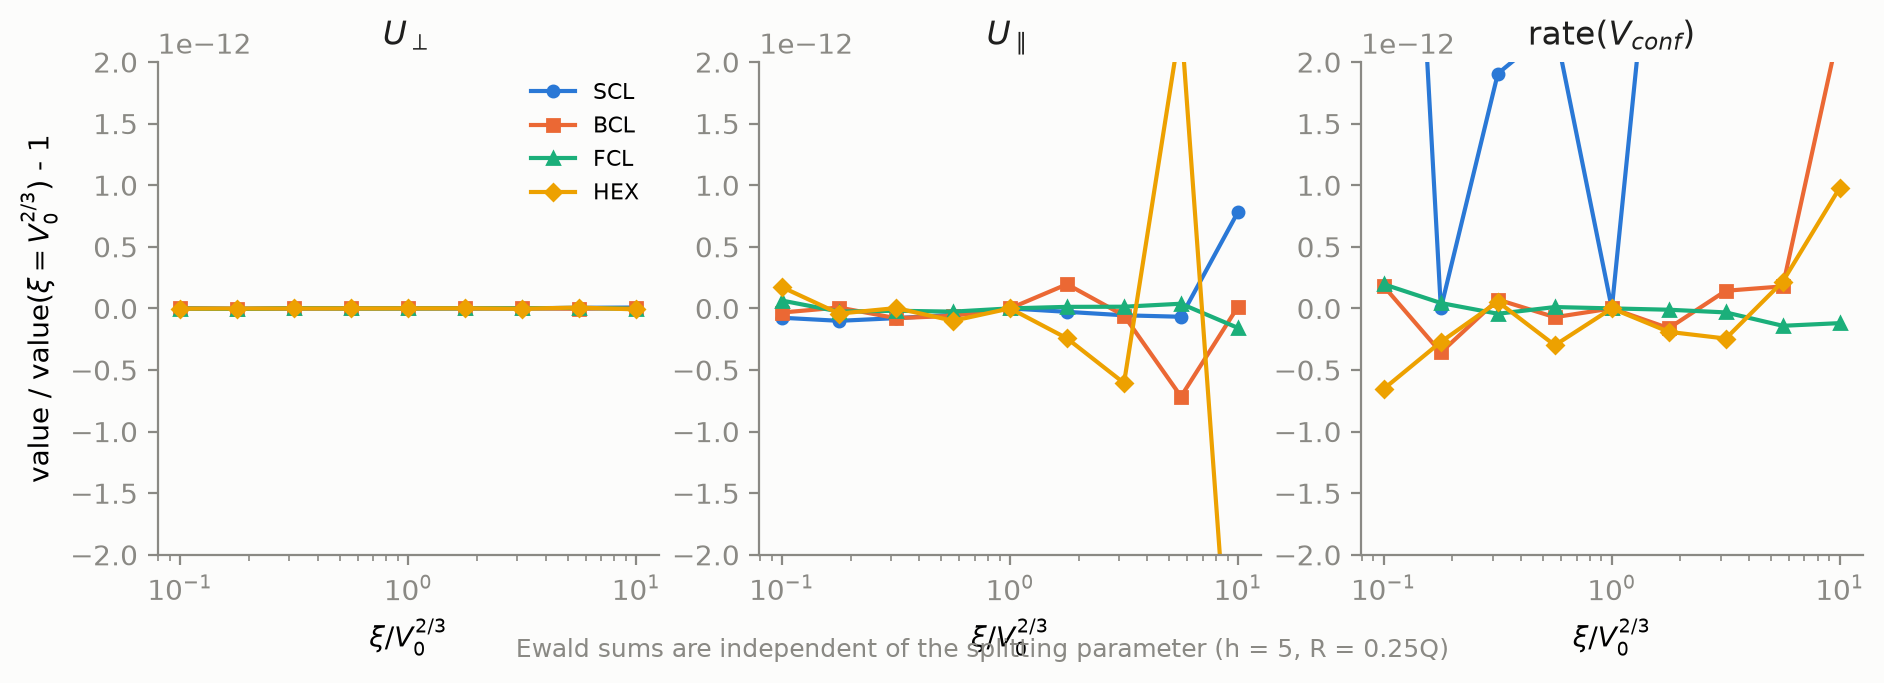
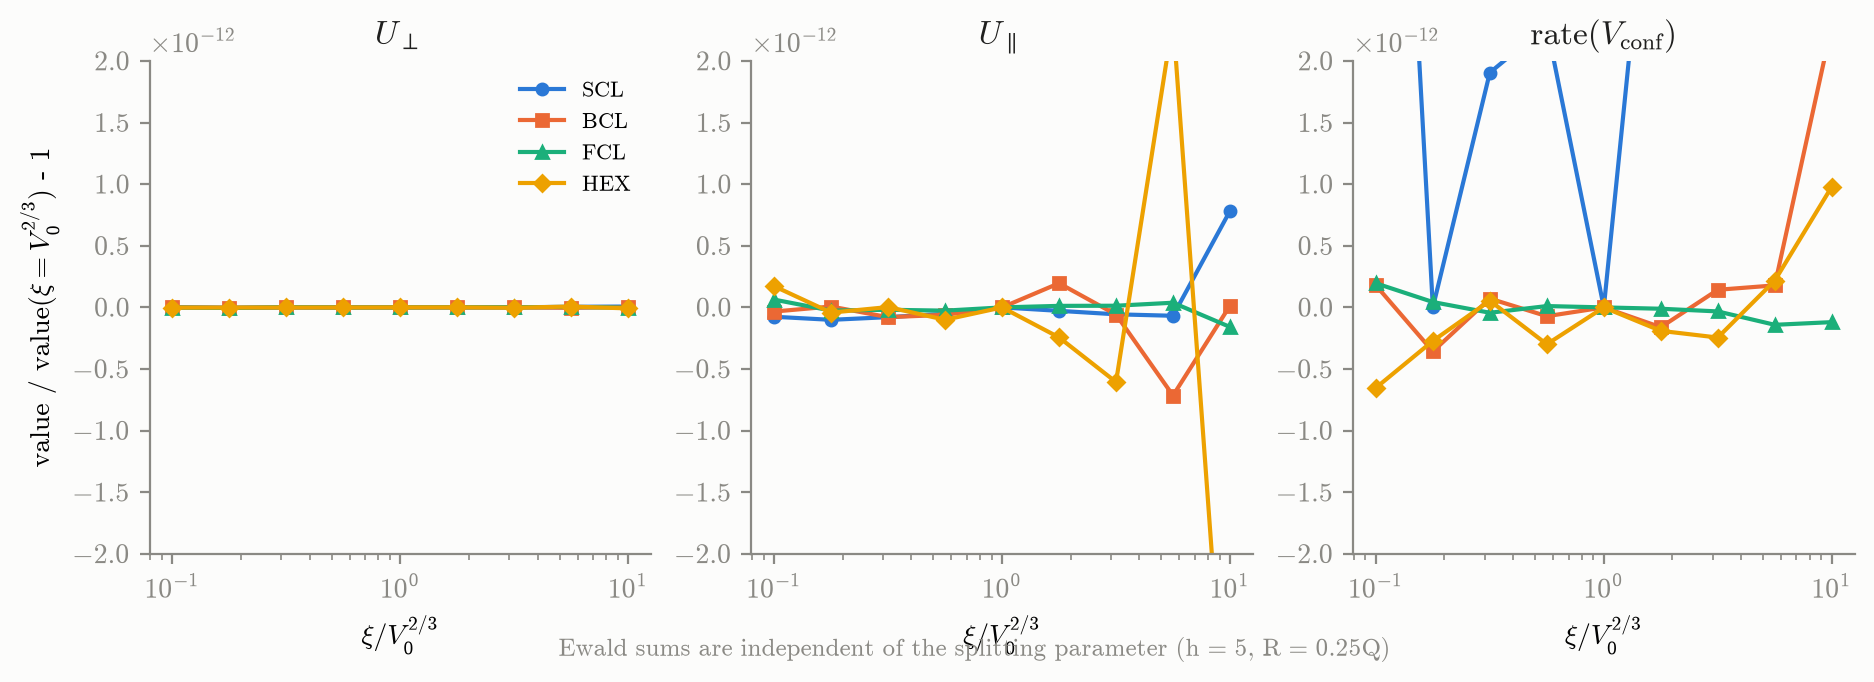
Use Computer Modern typography and math-mode labels in all figures
Set serif/cmr10 with the cm mathtext fontset in the three figure scripts,
convert plain-text labels (Q/h, R = Q/2, theta, A_perp, V_conf, ...) to
mathtext, and regenerate every figure.

diff --git a/scripts/paper_figures.py b/scripts/paper_figures.py
@@ -24,7 +24,10 @@ PI4 = np.pi / 4 + 1e-9
 plt.rcParams.update({"font.size": 10, "axes.spines.top": False, "axes.spines.right": False,
                      "axes.edgecolor": MUTED, "axes.labelcolor": INK, "xtick.color": MUTED, "ytick.color": MUTED,
                      "savefig.dpi": 200, "savefig.bbox": "tight", "figure.facecolor": "#fcfcfb",
-                     "axes.facecolor": "#fcfcfb"})
+                     "axes.facecolor": "#fcfcfb",
+                     # LaTeX look (Computer Modern) without needing a TeX install
+                     "font.family": "serif", "font.serif": ["cmr10"], "mathtext.fontset": "cm",
+                     "axes.formatter.use_mathtext": True, "axes.unicode_minus": False})
 
 
 def load(lat, geo, R):
@@ -69,13 +72,13 @@ def velocity_figure(geo, R, fname, title):
     axs[0].set_ylabel(r"$\bar U_\perp$  [$\zeta V^S/(\mu Q)$]")
     axs[1].set_ylabel(r"lattice correction  $100(\bar U_\perp-U_{iso})/|U_{iso}|$  (%)")
     axs[2].set_ylabel(r"$U_\perp/\bar U_\perp$")
-    axs[0].set_xlabel("Q/h"); axs[1].set_xlabel("Q/h"); axs[2].set_xlabel(r"$\theta$ (rad)")
+    axs[0].set_xlabel(r"$Q/h$"); axs[1].set_xlabel(r"$Q/h$"); axs[2].set_xlabel(r"$\theta$ (rad)")
     axs[2].set_xlim(-np.pi, np.pi)
     axs[0].legend(frameon=False, fontsize=8)
     for lat in LATS:
         axs[2].plot([], [], color=COLOR[lat], lw=1.5, label=NAME[lat])
     axs[2].legend(frameon=False, fontsize=8, ncol=2)
-    axs[2].set_title("all Q/h superimposed (darker = larger Q/h)", fontsize=8, color=MUTED)
+    axs[2].set_title(r"all $Q/h$ superimposed (darker = larger $Q/h$)", fontsize=8, color=MUTED)
     fig.suptitle(title, color=INK, fontsize=10, y=1.02)
     fig.savefig(os.path.join(OUT, fname))
     plt.close(fig)
@@ -105,11 +108,11 @@ def stability_figure(geo, R, lats, fname, title):
         ax.set_xlabel(r"$\theta$ (rad)")
         if zero.all():
             ax.text(0, qh.mean(), r"$A_\perp \equiv 0$" + "\n(neutral)", ha="center", va="center", color=INK)
-    axs[0].set_ylabel("Q/h")
+    axs[0].set_ylabel(r"$Q/h$")
     h1 = matplotlib.patches.Patch(color=STABLE, label=r"$A_\perp<0$: pushes Q back towards $a^{(1)}$")
     h2 = matplotlib.patches.Patch(color=UNSTABLE, label=r"$A_\perp>0$: pushes Q away from $a^{(1)}$")
     fig.legend(handles=[h1, h2], loc="upper center", ncol=2, frameon=False, bbox_to_anchor=(0.5, 1.1))
-    fig.suptitle(title + ".  Lines: level sets of $A_\\perp$ normalized at each Q/h.", color=MUTED,
+    fig.suptitle(title + ".  Lines: level sets of $A_\\perp$ normalized at each $Q/h$.", color=MUTED,
                  fontsize=8, y=-0.04)
     fig.savefig(os.path.join(OUT, fname))
     plt.close(fig)
@@ -132,7 +135,7 @@ def minima_figure(R, fname, title, geos=("bulk3d", "monolayer")):
                         label=f"{NAME[lat]} {'counterclockwise' if side > 0 else 'clockwise'}")
         ax.set_yscale("symlog", linthresh=1e-8)
         ax.axhline(0, color=MUTED, lw=0.6)
-        ax.set_xlabel("Q/h"); ax.set_ylabel(r"min$_\theta\,A_\perp/h$")
+        ax.set_xlabel(r"$Q/h$"); ax.set_ylabel(r"min$_\theta\,A_\perp/h$")
         ax.set_title(GEO[geo], color=INK, fontsize=10)
     axs[0][0].legend(frameon=False, fontsize=7, ncol=1)
     fig.suptitle(title, color=MUTED, fontsize=8, y=-0.04)
@@ -152,10 +155,10 @@ def amplitude_figure(R, fname, geos=("monolayer", "bulk3d", "pure2d")):
             ax.semilogy(qh, np.maximum(y, 1e-22), color=COLOR[lat], marker=MARK[lat], ms=5, mfc="none", lw=1.3,
                         label=NAME[lat])
         ax.set_title(GEO[geo], color=INK, fontsize=10)
-        ax.set_xlabel("Q/h")
+        ax.set_xlabel(r"$Q/h$")
     axs[0].set_ylabel(r"$\overline{|A_\perp|}/h$  (average over $|\theta|\leq\pi/4$)")
     axs[0].legend(frameon=False, fontsize=8)
-    fig.suptitle(f"R = {R:g}Q. For SCL with R = Q/2 the values are at round-off level "
+    fig.suptitle(f"$R = {R:g}\\,Q$. For SCL with $R = Q/2$ the values are at round-off level "
                  "(exact cancellation, SI Section S3).", color=MUTED, fontsize=8, y=-0.04)
     fig.savefig(os.path.join(OUT, fname))
     plt.close(fig)
@@ -175,10 +178,10 @@ def converged_velocity_figure(fname):
             m = circ & np.isclose(c["Q_over_h"], 0.25)
             o = np.argsort(c["theta"][m])
             axs[1].plot(c["theta"][m][o], c[key][m][o], ls, color=COLOR[lat], lw=1.5, label=lab)
-    axs[0].set_xlabel("Q/h"); axs[0].set_ylabel(r"$\theta$-average  [$\zeta V^S/(\mu Q)$]")
-    axs[1].set_xlabel(r"$\theta$ (rad)"); axs[1].set_ylabel(r"value at Q/h = 0.25")
+    axs[0].set_xlabel(r"$Q/h$"); axs[0].set_ylabel(r"$\theta$-average  [$\zeta V^S/(\mu Q)$]")
+    axs[1].set_xlabel(r"$\theta$ (rad)"); axs[1].set_ylabel(r"value at $Q/h = 0.25$")
     axs[0].legend(frameon=False, fontsize=8, ncol=2)
-    fig.suptitle("Converged translational velocity of the pair, 3D, R = Q/2", color=MUTED, fontsize=8, y=-0.04)
+    fig.suptitle("Converged translational velocity of the pair, 3D, $R = Q/2$", color=MUTED, fontsize=8, y=-0.04)
     fig.savefig(os.path.join(OUT, fname))
     plt.close(fig)
 
@@ -187,21 +190,21 @@ if __name__ == "__main__":
     import time
     os.makedirs(OUT, exist_ok=True)
     jobs = [
-        (velocity_figure, ("bulk3d", 0.5, "fig2_velocity_3D.png", "Fig. 2 (corrected): pair velocity, 3D lattices, R = Q/2")),
-        (velocity_figure, ("monolayer", 0.5, "fig3_velocity_monolayer.png", "Fig. 3 (corrected): pair velocity, monolayers in a 3D fluid, R = Q/2")),
-        (stability_figure, ("bulk3d", 0.5, ["bcl", "fcl", "hex"], "fig4_stability_3D.png", "Fig. 4 (corrected): 3D, R = Q/2 (SCL: A_perp = 0 identically)")),
-        (stability_figure, ("monolayer", 0.5, ["bcl", "fcl", "hex"], "fig5_stability_monolayer.png", "Fig. 5 (corrected): monolayers in a 3D fluid, R = Q/2 (SCL: A_perp = 0 identically)")),
-        (minima_figure, (0.5, "fig7_minima.png", "Fig. 7 (corrected): R = Q/2. Filled: theta > 0, open: theta < 0")),
-        (velocity_figure, ("bulk3d", 0.25, "figS1_velocity_3D_R025.png", "Fig. S1 (corrected): 3D, R = Q/4")),
-        (velocity_figure, ("monolayer", 0.25, "figS2_velocity_monolayer_R025.png", "Fig. S2 (corrected): monolayers, R = Q/4")),
+        (velocity_figure, ("bulk3d", 0.5, "fig2_velocity_3D.png", "Fig. 2 (corrected): pair velocity, 3D lattices, $R = Q/2$")),
+        (velocity_figure, ("monolayer", 0.5, "fig3_velocity_monolayer.png", "Fig. 3 (corrected): pair velocity, monolayers in a 3D fluid, $R = Q/2$")),
+        (stability_figure, ("bulk3d", 0.5, ["bcl", "fcl", "hex"], "fig4_stability_3D.png", "Fig. 4 (corrected): 3D, $R = Q/2$ (SCL: $A_\\perp = 0$ identically)")),
+        (stability_figure, ("monolayer", 0.5, ["bcl", "fcl", "hex"], "fig5_stability_monolayer.png", "Fig. 5 (corrected): monolayers in a 3D fluid, $R = Q/2$ (SCL: $A_\\perp = 0$ identically)")),
+        (minima_figure, (0.5, "fig7_minima.png", "Fig. 7 (corrected): $R = Q/2$. Filled: $\\theta > 0$, open: $\\theta < 0$")),
+        (velocity_figure, ("bulk3d", 0.25, "figS1_velocity_3D_R025.png", "Fig. S1 (corrected): 3D, $R = Q/4$")),
+        (velocity_figure, ("monolayer", 0.25, "figS2_velocity_monolayer_R025.png", "Fig. S2 (corrected): monolayers, $R = Q/4$")),
         (amplitude_figure, (0.5, "figS3_mean_abs_A.png")),
-        (stability_figure, ("bulk3d", 0.25, LATS, "figS4_stability_3D_R025.png", "Fig. S4 (corrected): 3D, R = Q/4")),
-        (stability_figure, ("monolayer", 0.25, LATS, "figS5_stability_monolayer_R025.png", "Fig. S5 (corrected): monolayers in a 3D fluid, R = Q/4")),
-        (minima_figure, (0.25, "figS6_minima_R025.png", "Fig. S6 (corrected): R = Q/4. Filled: theta > 0, open: theta < 0")),
-        (velocity_figure, ("pure2d", 0.5, "figS7_velocity_pure2d.png", "Extra SI: pair velocity, pure 2D, R = Q/2")),
-        (stability_figure, ("pure2d", 0.5, ["bcl", "fcl", "hex"], "figS8_stability_pure2d.png", "Extra SI: pure 2D (line forces), R = Q/2")),
-        (stability_figure, ("pure2d", 0.25, LATS, "figS9_stability_pure2d_R025.png", "Extra SI: pure 2D, R = Q/4")),
-        (minima_figure, (0.5, "figS10_minima_pure2d.png", "Extra SI: pure 2D, R = Q/2"), {"geos": ("pure2d",)}),
+        (stability_figure, ("bulk3d", 0.25, LATS, "figS4_stability_3D_R025.png", "Fig. S4 (corrected): 3D, $R = Q/4$")),
+        (stability_figure, ("monolayer", 0.25, LATS, "figS5_stability_monolayer_R025.png", "Fig. S5 (corrected): monolayers in a 3D fluid, $R = Q/4$")),
+        (minima_figure, (0.25, "figS6_minima_R025.png", "Fig. S6 (corrected): $R = Q/4$. Filled: $\\theta > 0$, open: $\\theta < 0$")),
+        (velocity_figure, ("pure2d", 0.5, "figS7_velocity_pure2d.png", "Extra SI: pair velocity, pure 2D, $R = Q/2$")),
+        (stability_figure, ("pure2d", 0.5, ["bcl", "fcl", "hex"], "figS8_stability_pure2d.png", "Extra SI: pure 2D (line forces), $R = Q/2$")),
+        (stability_figure, ("pure2d", 0.25, LATS, "figS9_stability_pure2d_R025.png", "Extra SI: pure 2D, $R = Q/4$")),
+        (minima_figure, (0.5, "figS10_minima_pure2d.png", "Extra SI: pure 2D, $R = Q/2$"), {"geos": ("pure2d",)}),
         (converged_velocity_figure, ("figS11_converged_velocity_3D.png",)),
     ]
     t0 = time.time()

diff --git a/scripts/convergence.py b/scripts/convergence.py
@@ -29,8 +29,11 @@ MARK = ["o", "s", "^", "D"]
 plt.rcParams.update({"font.size": 10, "axes.spines.top": False, "axes.spines.right": False,
                      "axes.edgecolor": MUTED, "xtick.color": MUTED, "ytick.color": MUTED,
                      "savefig.dpi": 200, "savefig.bbox": "tight", "figure.facecolor": "#fcfcfb",
-                     "axes.facecolor": "#fcfcfb"})
-KEYS = [("U_perp", r"$U_\perp$"), ("U_par", r"$U_\parallel$"), ("rate_conf", r"rate$(V_{conf})$")]
+                     "axes.facecolor": "#fcfcfb",
+                     # LaTeX look (Computer Modern) without needing a TeX install
+                     "font.family": "serif", "font.serif": ["cmr10"], "mathtext.fontset": "cm",
+                     "axes.formatter.use_mathtext": True, "axes.unicode_minus": False})
+KEYS = [("U_perp", r"$U_\perp$"), ("U_par", r"$U_\parallel$"), ("rate_conf", r"rate$(V_{\mathrm{conf}})$")]
 T0 = time.time()
 
 
@@ -80,8 +83,8 @@ def conv_ewald(lattices=("scl", "bcl", "fcl", "hex"), h=5.0, theta=0.2, R=0.25):
             axs[i, c].axhline(1e-12, color=MUTED, lw=0.6, ls=":")
         axs[i, 0].set_ylabel("relative error")
     for c in range(3):
-        axs[-1, c].set_xlabel("n")
-    fig.supxlabel("n: images with |m_i| <= n in real and reciprocal space", color=MUTED, fontsize=9)
+        axs[-1, c].set_xlabel(r"$n$")
+    fig.supxlabel(r"$n$: images with $|m_i| \leq n$ in real and reciprocal space", color=MUTED, fontsize=9)
     axs[0, 0].legend(frameon=False, fontsize=8)
     fig.savefig(os.path.join(OUTF, "conv_ewald.png"))
     plt.close(fig)
@@ -136,12 +139,12 @@ def conv_production(theta=0.2, R=0.5):
                 + ("   <- production n" if n == n_prod else ""))
             rows.append({"h": h, "Q_over_h": 1 / h, "n": int(n), "rate_conf": v, "converged": ref})
         ax.semilogy(ns / h, np.maximum(err, 1e-16), color=SERIES[i], marker=MARK[i], ms=4, lw=1.5,
-                    label=f"Q/h = {1 / h:.3f} (h = {h})")
+                    label=f"$Q/h = {1 / h:.3f}$ ($h = {h}$)")
         e_prod = err[list(ns).index(n_prod)]
         ax.plot(n_prod / h, e_prod, marker="*", ms=14, color=SERIES[i], mec=INK, mew=0.8, ls="none")
-    ax.set_xlabel("n / h")
-    ax.set_ylabel("relative error of rate$(V_{conf})$")
-    ax.set_title(r"HEX 3D with the production setting $\alpha=\xi=1$ (stars: n used in production)",
+    ax.set_xlabel(r"$n / h$")
+    ax.set_ylabel(r"relative error of rate$(V_{\mathrm{conf}})$")
+    ax.set_title(r"HEX 3D with the production setting $\alpha=\xi=1$ (stars: $n$ used in production)",
                  fontsize=9, color=INK)
     ax.legend(frameon=False, fontsize=8)
     fig.savefig(os.path.join(OUTF, "conv_production.png"))
@@ -172,11 +175,11 @@ def conv_direct(theta=0.2, R=0.5, h=5.0):
                 for L, val in zip(Ls, y):
                     rows.append({"geometry": geo, "lattice": lat, "L_over_h": L, "observable": key,
                                  "partial_sum": val, "extrapolated": fin[key]})
-        axs[gi, 0].set_title(f"{geo}: rate$(V_{{conf}})$", color=INK, fontsize=10)
+        axs[gi, 0].set_title(rf"{geo}: rate$(V_{{\mathrm{{conf}}}})$", color=INK, fontsize=10)
         axs[gi, 1].set_title(f"{geo}: $U_\\perp$", color=INK, fontsize=10)
-        axs[gi, 0].set_ylabel("|partial sum - extrapolated| / |extrapolated|")
+        axs[gi, 0].set_ylabel(r"relative error  $|S_L - S_\infty| / |S_\infty|$")
     for c in range(2):
-        axs[1, c].set_xlabel("cutoff radius L / (V_0)^{1/3}")
+        axs[1, c].set_xlabel(r"cutoff radius $L / V_0^{1/3}$")
     axs[0, 0].legend(frameon=False, fontsize=8)
     fig.savefig(os.path.join(OUTF, "conv_direct.png"))
     plt.close(fig)

diff --git a/scripts/make_figures.py b/scripts/make_figures.py
@@ -19,7 +19,10 @@ STABLE, UNSTABLE, NEUTRAL, INK, MUTED = "#2a78d6", "#e34948", "#f0efec", "#1f1f1
 plt.rcParams.update({"font.size": 10, "axes.edgecolor": MUTED, "axes.labelcolor": INK, "xtick.color": MUTED,
                      "ytick.color": MUTED, "axes.spines.top": False, "axes.spines.right": False,
                      "savefig.dpi": 200, "savefig.bbox": "tight", "figure.facecolor": "#fcfcfb",
-                     "axes.facecolor": "#fcfcfb"})
+                     "axes.facecolor": "#fcfcfb",
+                     # LaTeX look (Computer Modern) without needing a TeX install
+                     "font.family": "serif", "font.serif": ["cmr10"], "mathtext.fontset": "cm",
+                     "axes.formatter.use_mathtext": True, "axes.unicode_minus": False})
 
 
 def load(lattice, geo, R):
@@ -52,7 +55,7 @@ def stability_maps(lattice="hex"):
                 ax.axvline(t, color=INK, lw=0.8, ls=":")
             ax.set_title(LABEL[g], color=INK, fontsize=10)
             ax.set_xlabel(r"$\theta$ (rad)")
-        axs[0].set_ylabel("Q/h")
+        axs[0].set_ylabel(r"$Q/h$")
         h1 = matplotlib.patches.Patch(color=STABLE, label=r"$A_\perp<0$ (pushes Q towards $a^{(1)}$)")
         h2 = matplotlib.patches.Patch(color=UNSTABLE, label=r"$A_\perp>0$ (pushes Q away)")
         fig.legend(handles=[h1, h2], loc="upper center", ncol=2, frameon=False, bbox_to_anchor=(0.5, 1.08))
@@ -78,9 +81,9 @@ def rates_vs_theta(lattice="hex", R=0.5):
         ax.axhline(0, color=MUTED, lw=0.6)
         for t in (-np.pi / 6, np.pi / 6):
             ax.axvline(t, color=MUTED, lw=0.6, ls=":")
-        ax.set_title(f"Q/h = {qh0:g}  (the three normalized curves coincide)", color=INK, fontsize=10)
+        ax.set_title(f"$Q/h = {qh0:g}$  (the three normalized curves coincide)", color=INK, fontsize=10)
         ax.set_xlabel(r"$\theta$ (rad)")
-    axs[0].set_ylabel(r"$(\hat Q\times V_{conf})\cdot\hat n$ / max")
+    axs[0].set_ylabel(r"$(\hat Q\times V_{\mathrm{conf}})\cdot\hat n$ / max")
     axs[0].legend(frameon=False, fontsize=8, loc="lower left")
     fig.savefig(os.path.join(OUT, f"{lattice}_rates_vs_theta_R{R:g}.png"))
     plt.close(fig)
@@ -98,7 +101,7 @@ def amplitude_vs_qh(lattice="hex"):
                       label=f"{LABEL[g]}, R={R:g}Q  (slope {p:.2f})")
     ax.xaxis.set_minor_formatter(matplotlib.ticker.NullFormatter())
     ax.set_xticks([0.025, 0.05, 0.1, 0.25]); ax.set_xticklabels(["0.025", "0.05", "0.1", "0.25"])
-    ax.set_xlabel("Q/h"); ax.set_ylabel(r"max$_\theta$ |rate(V$_{conf}$)|  [$\zeta V^S/(\mu Q)$]")
+    ax.set_xlabel(r"$Q/h$"); ax.set_ylabel(r"max$_\theta$ |rate($V_{\mathrm{conf}}$)|  [$\zeta V^S/(\mu Q)$]")
     ax.legend(frameon=False, fontsize=7)
     fig.savefig(os.path.join(OUT, f"{lattice}_vconf_amplitude.png"))
     plt.close(fig)
@@ -117,7 +120,7 @@ def velocity_vs_qh(lattice="hex"):
     axs[0].set_ylabel(r"$-U_\perp$  [$\zeta V^S/(\mu Q)$]  (motion along $-\hat Q\times\hat n$)")
     axs[1].set_ylabel("lattice correction  (U - U$_{isolated}$)/U$_{isolated}$")
     for ax in axs:
-        ax.set_xlabel("Q/h")
+        ax.set_xlabel(r"$Q/h$")
     fig.legend(*axs[0].get_legend_handles_labels(), loc="lower center", ncol=3, frameon=False,
                fontsize=8, bbox_to_anchor=(0.5, -0.22))
     fig.savefig(os.path.join(OUT, f"{lattice}_velocity_vs_qh.png"))
